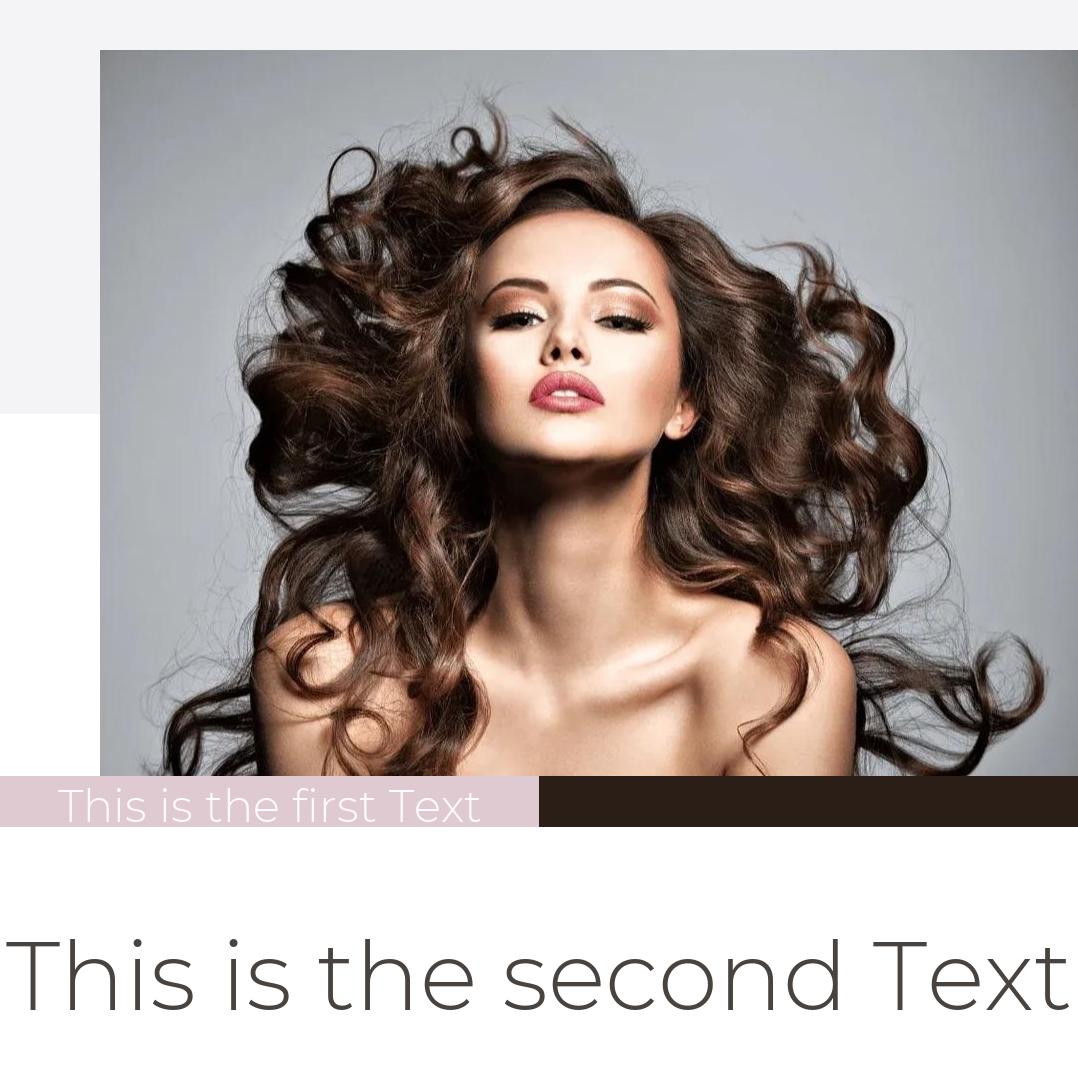
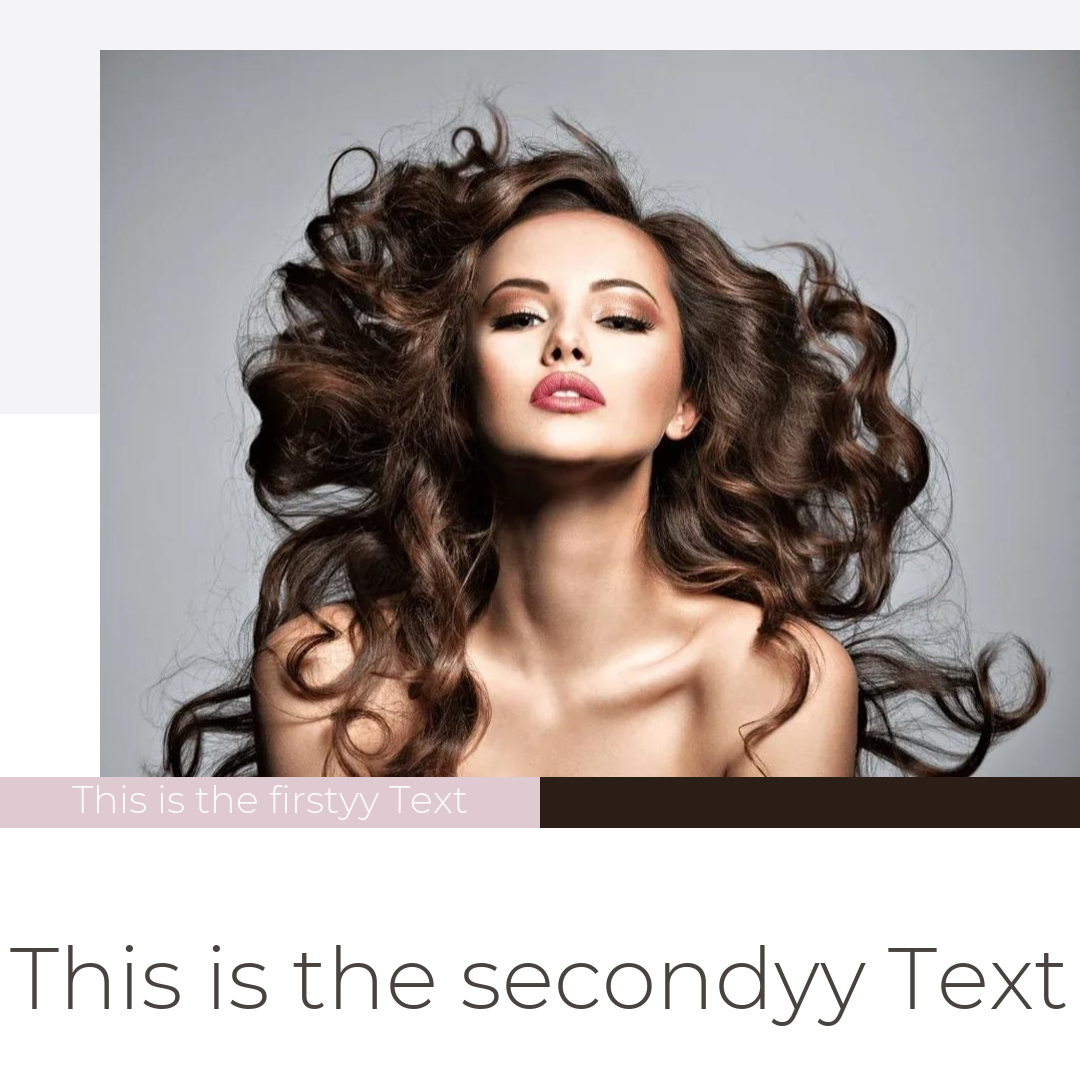
added ratio_cal

diff --git a/main.py b/main.py
@@ -7,40 +7,47 @@ def findfont(text_bbox,box_width,box_height,font,fontsize,text,draw):
         text_bbox = draw.textbbox((0, 0), text, font=font)
     return font
 
+def ratio_cal(width,height):
+    ratio= height/width
+    if height>width:
+        new_height=730
+        new_width=round(730/ratio)
+    else :
+        new_width=980
+        new_height=round(980*ratio)
+    return (new_width,new_height)
+
 def imagetranform(text1,text2,path):
     # Image Open
     image = Image.open(path)
     print(image.size)
-    right = 0
-    left = 100
-    top = 50
-    bottom = 300
+    new_width,new_height=ratio_cal(image.size[0],image.size[1])
+    image = image.resize((new_width,new_height))
+    print(image.size)
     width, height = image.size
     # Adding the Padding for the text
-    new_width = width + right + left
-    new_height = height + top + bottom
-    result = Image.new(image.mode, (new_width, new_height), (255, 255, 255))
+    result = Image.new(image.mode, (1080,1080), (255, 255, 255))
     draw = ImageDraw.Draw(result)
     # Adding the grey box behind
-    draw.rectangle((0, 0, new_width, height/2+50), fill=ImageColor.getrgb("#f4f4f6"))
+    draw.rectangle((0, 0, 1080, height/2+50), fill=ImageColor.getrgb("#f4f4f6"))
     # Adding the Image
-    result.paste(image, (left, top))
+    result.paste(image, (1080-width, 50))
     # First font calculation
     font = ImageFont.truetype(font_used, 45)
     draw = ImageDraw.Draw(result)
-    draw.rectangle((0, height+50, new_width/2, height+100), fill=ImageColor.getrgb("#dfcad1"))
-    draw.rectangle((new_width/2, height+50, new_width, height+100), fill=ImageColor.getrgb("#2b1e16"))
+    draw.rectangle((0, height+50, 540, height+100), fill=ImageColor.getrgb("#dfcad1"))
+    draw.rectangle((540, height+50, 1080, height+100), fill=ImageColor.getrgb("#2b1e16"))
     text_bbox = draw.textbbox((10, 0), text1, font=font)
-    font=findfont(text_bbox,width-500,45,font,45,text1,draw)
+    font=findfont(text_bbox,580,45,font,45,text1,draw)
     # Adding Text1
-    draw.text((new_width/4,new_height-270), text1, font=font, fill= ImageColor.getrgb("#fffbfe"),anchor='mm') 
-    box_width,box_height=new_width,250
+    draw.text((270,height+72.5), text1, font=font, fill= ImageColor.getrgb("#fffbfe"),anchor='mm') 
+    box_width,box_height=1080,250
     # Second font calculation
     font = ImageFont.truetype(font_used, 150)
     text_bbox = draw.textbbox((0, 0), text2, font=font)
     font = findfont(text_bbox,box_width,box_height,font,150,text2,draw)
     # Adding Text2
-    draw.text((new_width/2,height+250), text2, font=font, fill= ImageColor.getrgb("#48433f"),anchor='mm') 
+    draw.text((540,height+250), text2, font=font, fill= ImageColor.getrgb("#48433f"),anchor='mm') 
     result.save('output.png')
 
 

diff --git a/inputdata.py b/inputdata.py
@@ -1,4 +1,4 @@
-text1="This is the first Text"
-text2="This is the second Text"
+text1="This is the firstyy Text"
+text2="This is the secondyy Text"
 path="input.jpg"
 font_used="font\Montserrat-Light.ttf"
